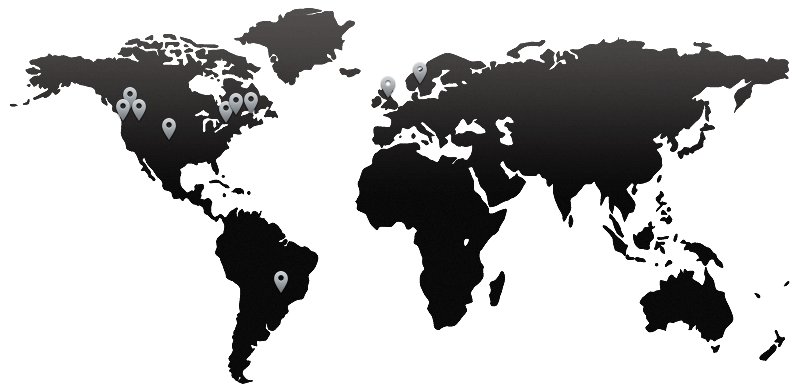
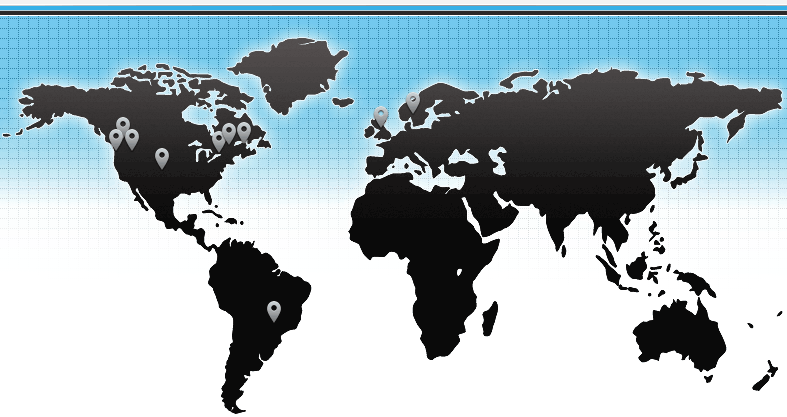
I hate this map

diff --git a/site.css b/site.css
@@ -44,7 +44,16 @@ h1 a { outline:0 none; }
   font-size: 28px; text-align: right;
 }
 
-#map { height:200px; }
+#map {
+  border-bottom:5px solid #f3f3f3; margin-bottom:1px;
+  background: url("img/map_bgr.png") repeat-x scroll 0 0 #fff;
+  height:455px;
+}
+#map img { display:block; margin: 0 auto; width: 787px; }
+#map + #content {
+  background: url("img/content_border_grad.png") no-repeat scroll 0 0 #fff;
+  padding-top:2.5em;
+}
 
 #content { padding-left:3em; margin-bottom:3em; overflow:hidden; }
 #leftcol, .leftcol { width:400px; float:left; margin-right:80px; }

diff --git a/home.html b/home.html
@@ -26,7 +26,9 @@
     
     <h1><a href="#"><img src="img/logo.png" alt="LinuxTraining.com" /></a></h1>
     
-    <div id="map"><img src="" alt="map with training locations"></img></div>
+    <div id="map">
+      <img src="img/map.png" alt="map with training locations"></img>
+    </div>
 
     <div id="content">
       <div id="leftcol">
